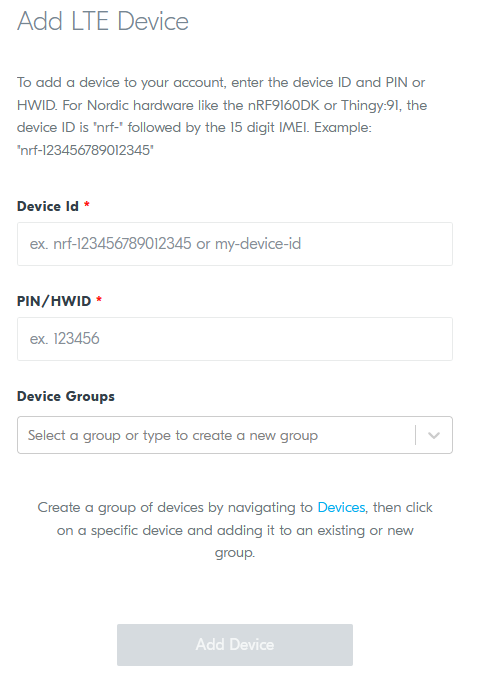
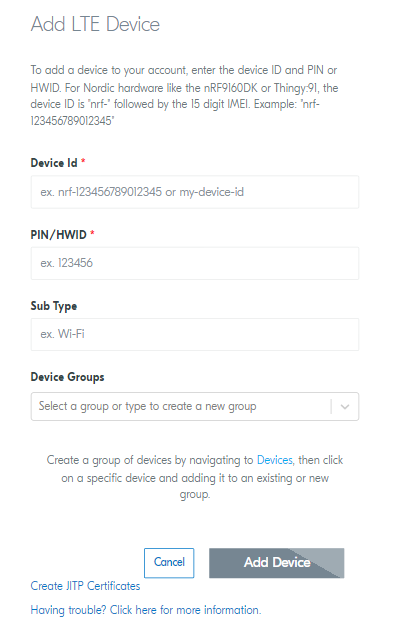
doc: match nRF Cloud frontend changes
The workflow in the nRF Cloud frontend is changing. This aligns
the documentation for the nRF9160 DK and the Thingy:91 to match
the new flow.

diff --git a/doc/nrf/device_guides/working_with_nrf/nrf91/nrf9160_gs.rst b/doc/nrf/device_guides/working_with_nrf/nrf91/nrf9160_gs.rst
@@ -60,14 +60,12 @@ To work with the nRF9160 DK firmware and certificates, complete the following st
    #. Connect the nRF9160 DK to the computer with a micro-USB cable, and then turn the DK on.
 
 #. Use the Quick Start app to update the DK firmware.
-   Follow the steps in the application and pay attention to the following actions:
 
-   * When selecting which application to program, select the **Asset Tracking** option.
-   * In the SIM Setup step, read and copy the :term:`Integrated Circuit Card Identifier (ICCID)` of the inserted micro-SIM.
-     This is needed for connecting to nRF Cloud.
+   Follow the steps in the application to update the firmware, create an nRF Cloud account, and activate the iBasis SIM card that came with your nRF9160 DK.
+   When selecting which application to program, select the **Asset Tracking** option.
 
-   If you have not yet installed the |NCS| and selected the preferred development environment, the application will point you to the related resources.
-   It will also provide you with links to the recommended learning materials from Nordic Semiconductor related to cellular development.
+If you have not yet installed the |NCS| and selected the preferred development environment, the application will point you to the related resources.
+It will also provide you with links to the recommended learning materials from Nordic Semiconductor related to cellular development.
 
 .. _nrf9160_gs_connect_to_cloud:
 .. _nrf9160_gs_connecting_dk_to_cloud:
@@ -82,15 +80,9 @@ Connecting the |DK| to nRF Cloud
 To transmit data from your |DK| to nRF Cloud, you need an `nRF Cloud`_ account.
 nRF Cloud is Nordic Semiconductor's platform for connecting your IoT devices to the cloud, viewing and analyzing device message data, prototyping ideas that use Nordic Semiconductor's chips, and more.
 
-Once you have an account, activate your SIM card and add the |DK| to your nRF Cloud account.
-
-.. note::
-
-   The instructions assume you are activating an iBasis SIM card that came with your |DK|.
-
-   If you are using a SIM card from another provider, make sure you activate it through your network operator before adding the device to nRF Cloud.
-
 .. dk_nrf_cloud_end
+
+If you used the :ref:`Quick Start app to get started <nrf9160_gs_updating_fw>`, you have an account and can :ref:`add the nRF9160 DK to nRF Cloud <nrf9160_gs_cloud_add_device>`.
 
 .. _creating_cloud_account:
 
@@ -112,61 +104,8 @@ To create an nRF Cloud account, complete the following steps:
 
 You can now log in to `nRF Cloud`_ with your email and password.
 After logging in, you are taken to the dashboard view that displays your device count and service usage.
-Next, you need to activate the SIM card you will use in the |DK|.
 
 .. nrf_cloud_account_end
-
-.. _nrf9160_gs_cloud_activate_sim:
-
-Activating the SIM card
-=======================
-
-.. |firmware_section_link| replace:: :ref:`nrf9160_gs_updating_fw`
-
-.. nrf_cloud_activate_sim_start
-
-To activate the iBasis SIM card that comes shipped with the |DK|, complete the following steps in the `nRF Cloud`_ portal.
-Make sure you are logged in to the portal.
-
-1. Click the :guilabel:`+` icon in the top left corner.
-
-   .. figure:: images/nrfcloud_plus_sign_callout.png
-      :alt: nRF Cloud - Plus icon
-
-      nRF Cloud - Plus icon
-
-   The :guilabel:`Add New` menu opens.
-
-   .. figure:: images/nrfcloud_addnew.png
-      :alt: nRF Cloud - Add New menu
-
-      nRF Cloud - Add New menu
-
-#. In the :guilabel:`Add New` menu, click :guilabel:`SIM Card`.
-#. Complete the following steps on the **Add SIM** page to activate your iBasis SIM card:
-
-   .. figure:: images/nrfcloud_activating_sim.png
-      :alt: nRF Cloud - Add SIM page
-
-      nRF Cloud - Add SIM page
-
-   a. Enter the 18-digit :term:`Integrated Circuit Card Identifier (ICCID)` or the 19-digit :term:`eUICC Identifier (EID)` in the **SIM ICCID/EID** text box.
-
-      If you followed the instructions in the |firmware_section_link| section, paste the copied ICCID into the **SIM ICCID/EID** box and remove the last two digits.
-
-      .. note::
-         The SIM card can have either the EID, the ICCID, or neither printed on it.
-
-   #. Enter the :term:`Personal Unblocking Key (PUK)` in the **PUK** text box.
-
-      The PUK is printed on the SIM card.
-      Reveal the PUK by scratching off the area on the back of the SIM card.
-   #. Accept the Terms and the Privacy Policy.
-   #. Click the :guilabel:`Activate SIM` button.
-
-After the SIM card is activated, you can add your |DK| to nRF Cloud.
-
-.. nrf_cloud_activate_sim_end
 
 .. _nrf9160_gs_cloud_add_device:
 
@@ -175,12 +114,11 @@ Adding the nRF9160 DK to nRF Cloud
 
 .. |led_cloud_association| replace:: the **LED3** double pulse blinks
 .. |led_publishing_data| replace:: blinking of **LED3**
-.. |activate_sim_section| replace:: :ref:`nrf9160_gs_cloud_activate_sim`
 
 .. nrf_cloud_add_device_start
 
 To add the |DK| to nRF Cloud, complete the following steps.
-Make sure you are logged in to the `nRF Cloud`_ portal.
+Make sure you are logged in to the `nRF Cloud`_ portal and have an activated SIM card in the SIM card slot of the |DK|.
 
 1. Connect the |DK| to the computer with a USB cable and switch it on, or reset the device if it is already switched on.
 #. Wait up to three minutes for the device to find the cellular network and connect to the nRF Cloud server.
@@ -189,56 +127,30 @@ Make sure you are logged in to the `nRF Cloud`_ portal.
    When the device has connected, |led_cloud_association| to indicate that user association is required and you can move to the next step.
    See :ref:`Asset Tracker v2 LED indication <led_indication>` for more information.
 
-#. Click the :guilabel:`+` icon in the top left corner.
+#. Click :guilabel:`Devices` under :guilabel:`Device Management` in the navigation pane on the left.
 
-   .. figure:: images/nrfcloud_plus_sign_callout.png
-      :alt: nRF Cloud - Plus icon
+   .. figure:: images/nrfcloud_devices.png
+      :alt: nRF Cloud - Devices
 
-      nRF Cloud - Plus icon
+      nRF Cloud - Devices
 
-   The :guilabel:`Add New` menu opens.
+#. Click :guilabel:`Add Devices`.
 
-   .. figure:: images/nrfcloud_addnew.png
-      :alt: nRF Cloud - Add New menu
+   .. figure:: images/nrfcloud_add_devices.png
+      :alt: nRF Cloud - Add Devices
 
-      nRF Cloud - Add New menu
+      nRF Cloud - Add Devices
 
-#. In the :guilabel:`Add New` menu, click :guilabel:`LTE Device`.
-   The **Add LTE Device** page opens in the **Verify SIM Info** view.
+   The **Select Device Type** pop-up opens.
 
-   .. figure:: images/nrfcloud_activating_sim.png
-      :alt: nRF Cloud - Add LTE Device page, Verify SIM Info view
+#. Click :guilabel:`LTE Device` in the **Select Device Type** pop-up.
 
-      nRF Cloud - Add LTE Device page, Verify SIM Info view
+   .. figure:: images/nrfcloud_selectdevicetype.png
+      :alt: nRF Cloud - Select Device Type
 
-#. Complete the following steps in the **Activate SIM Card** view to activate your iBasis SIM card:
+      nRF Cloud - Select Device Type
 
-   a. Enter the 18-digit :term:`Integrated Circuit Card Identifier (ICCID)` or the 19-digit :term:`eUICC Identifier (EID)` in the **SIM ICCID/EID** text box.
-
-      If you followed the instructions in the |firmware_section_link| section, paste the copied ICCID into the **SIM ICCID/EID** box.
-
-      .. note::
-         The SIM cards can have either the EID, the ICCID, or neither printed on it.
-
-   #. Enter the :term:`Personal Unblocking Key (PUK)` in the **PUK** text box.
-
-      The PUK is printed on the SIM card.
-      Reveal the PUK by scratching off the area on the back of the SIM card.
-   #. Accept the Terms and the Privacy Policy.
-   #. Click the :guilabel:`Activate SIM` button.
-
-   After the SIM card is activated, you are taken to the **Add LTE Device** view.
-   Leave the browser window open and continue with the next step before you enter the information on this window.
-
-.. nrf_cloud_connection_end
-
-5. Connect the nRF9160 DK to the computer with a USB cable and turn it on, or reset the device if it is already turned on.
-#. Wait up to three minutes for the device to find the cellular network and connect to the nRF Cloud server.
-
-   At this stage, the device is provisioned on nRF Cloud, but not yet associated with your nRF Cloud account.
-   When the DK has connected, the **LED3** double pulse blinks to indicate that user association is required and you can move to the next step.
-
-#. In the **Add LTE Device** view from Step 4, enter your device ID and ownership code (**PIN/HWID**).
+#. Enter your device ID and ownership code (**PIN/HWID**) on the **Add LTE Device** page.
 
    .. figure:: images/nrfcloud_add_lte_device.png
       :alt: nRF Cloud - Add LTE Device
@@ -264,21 +176,16 @@ Make sure you are logged in to the `nRF Cloud`_ portal.
 
    The **Do you need to activate an iBasis SIM?** pop-up opens.
 
-#. Click :guilabel:`Device View` if you have an activated SIM.
-   You are taken to the page for your device.
-
-   Click :guilabel:`Add iBasis SIM` if you have not yet activated your iBasis SIM card.
-   See the |activate_sim_section| section for more information.
-
-#. Wait for the device to reconnect to nRF Cloud.
+#. Click :guilabel:`Continue` and wait for the device to reconnect to nRF Cloud.
    It is normal for the device to disconnect and reconnect multiple times during device provisioning.
+
+   If you have not yet activated the iBasis SIM card that came with your |DK|, click :guilabel:`Activate iBasis SIM` instead, and follow the instructions.
 
 The |DK| is now added to your nRF Cloud account.
 This is indicated by the |led_publishing_data|, which shows that the device is publishing data.
 See :ref:`Asset Tracker v2 LED indication <led_indication>` for more information.
 
-To access the page for your device later in the nRF Cloud portal, click :guilabel:`Devices` under :guilabel:`Device Management` in the navigation pane on the left.
-This opens the **Devices** page, where you can select your device to access its device page.
+On nRF Cloud, you can access the device by clicking :guilabel:`Devices` under :guilabel:`Device Management` in the navigation pane on the left.
 
 .. nrf_cloud_add_device_end
 

diff --git a/doc/nrf/device_guides/working_with_nrf/nrf91/nrf9160.rst b/doc/nrf/device_guides/working_with_nrf/nrf91/nrf9160.rst
@@ -44,22 +44,33 @@ To do so, you need to download a new certificate and then provision it to your D
 Downloading the nRF Cloud certificate
 =====================================
 
-Complete the following steps to download the nRF Cloud certificate for your nRF9160 DK:
+To download the nRF Cloud certificate for your nRF9160 DK, complete the following steps.
+Make sure you are logged in to the `nRF Cloud`_ portal.
 
-1. Go to `nRF Cloud`_ and sign in.
-#. Click :guilabel:`Device Management` in the left pane and select :guilabel:`Provision Devices`.
+1. Click :guilabel:`Devices` under :guilabel:`Device Management` in the navigation pane on the left.
 
-   .. figure:: images/nrfcloud_provisiondevices.png
-      :alt: nRF Cloud - Provision Devices
+   .. figure:: images/nrfcloud_devices.png
+      :alt: nRF Cloud - Devices
 
-      nRF Cloud - Provision Devices
+      nRF Cloud - Devices
 
-#. In the  page that opens up, click the gear icon near the upper right corner and select :guilabel:`Create JITP Certificates`.
+#. Click :guilabel:`Add Devices`.
 
-   .. figure:: images/nrfcloud_provisiondevices_gearicon.png
-      :alt: nRF Cloud - Gear icon in Provision Devices
+   .. figure:: images/nrfcloud_add_devices.png
+      :alt: nRF Cloud - Add Devices
 
-      nRF Cloud - Gear icon in Provision Devices
+      nRF Cloud - Add Devices
+
+   The **Select Device Type** pop-up opens.
+
+#. Click :guilabel:`LTE Device` in the **Select Device Type** pop-up.
+
+   .. figure:: images/nrfcloud_selectdevicetype.png
+      :alt: nRF Cloud - Select Device Type
+
+      nRF Cloud - Select Device Type
+
+#. Click **Create JITP Certificates** at the bottom of the page.
 
    The **Create JITP Certificates** dialog box opens.
 
@@ -90,6 +101,8 @@ Complete the following steps to download the nRF Cloud certificate for your nRF9
       The certificate contains all the information that is needed to connect your nRF9160 DK to nRF Cloud.
       Therefore, do not share it with anyone.
 
+#. Close the **Create JITP Certificates** dialog box.
+
 .. _provisioning_cloud_certificate:
 
 Provisioning the nRF Cloud certificate
@@ -100,13 +113,12 @@ After downloading the certificate, you must provision it to your nRF9160 DK.
 .. note::
 
    The application firmware on the nRF9160 DK must support long AT commands up to 3 kB to provision the certificate.
-   If you have updated the application firmware using the instructions in either the :ref:`Getting started <nrf9160_gs_updating_fw>` documentation or the :ref:`build_pgm_nrf9160` section, this requirement is fulfilled.
+   If you have updated the application firmware using the instructions in either the :ref:`nrf9160_gs_updating_fw` documentation or the :ref:`nrf9160_ug_updating_fw_programmer` or :ref:`build_pgm_nrf9160` sections, this requirement is fulfilled.
 
 Complete the following steps to provision the certificate:
 
 1. Start nRF Connect for Desktop and install the `Cellular Monitor`_ app.
 #. Open the Cellular Monitor app.
-#. Make sure that the DK is programmed as mentioned in the :ref:`nrf9160_gs_updating_fw` section.
 #. Connect the DK to the computer with a micro-USB cable, and turn it on.
 #. Click :guilabel:`Select device` and select the DK from the drop-down list.
 

diff --git a/doc/nrf/device_guides/working_with_nrf/nrf91/thingy91_gsg.rst b/doc/nrf/device_guides/working_with_nrf/nrf91/thingy91_gsg.rst
@@ -52,7 +52,7 @@ Before you start updating the modem firmware and application on the Thingy:91, y
 
 Complete the following steps to prepare the Thingy:91 for setup:
 
-1. Install the `nRF Connect Programmer`_ application on the computer:
+1. Install the `Cellular Monitor`_ app on the computer:
 
    a. Go to `nRF Connect for Desktop Downloads <Download nRF Connect for Desktop_>`_.
    #. Download and install nRF Connect for Desktop.
@@ -201,6 +201,14 @@ Connecting the |DK| to nRF Cloud
    :start-after: dk_nrf_cloud_start
    :end-before: dk_nrf_cloud_end
 
+Once you have an account, activate your SIM card and add the Thingy:91 to your nRF Cloud account.
+
+.. note::
+
+   The instructions assume you are activating an iBasis SIM card that came with your |DK|.
+
+   If you are using a SIM card from another provider, make sure you activate it through your network operator before :ref:`adding the device to nRF Cloud <thingy91_cloud_add_device>`.
+
 Creating an nRF Cloud account
 =============================
 
@@ -213,11 +221,45 @@ Creating an nRF Cloud account
 Activating the SIM card
 =======================
 
-.. |firmware_section_link| replace:: :ref:`thingy91_update_firmware`
+To activate the iBasis SIM card that comes shipped with the |DK|, complete the following steps in the `nRF Cloud`_ portal.
+Make sure you are logged in to the portal.
 
-.. include:: nrf9160_gs.rst
-   :start-after: nrf_cloud_activate_sim_start
-   :end-before: nrf_cloud_activate_sim_end
+1. Click :guilabel:`SIM Cards` under :guilabel:`Device Management` in the navigation pane on the left.
+
+   .. figure:: images/nrfcloud_simcards.png
+      :alt: nRF Cloud - SIM Cards
+
+      nRF Cloud - SIM Cards
+
+#. Click :guilabel:`Add SIM`.
+
+   .. figure:: images/nrfcloud_addsim.png
+      :alt: nRF Cloud - Add SIM
+
+      nRF Cloud - Add SIM
+
+#. Complete the following steps on the **Add SIM** page to activate your iBasis SIM card:
+
+   .. figure:: images/nrfcloud_activating_sim.png
+      :alt: nRF Cloud - Add SIM page
+
+      nRF Cloud - Add SIM page
+
+   a. Enter the 18-digit :term:`Integrated Circuit Card Identifier (ICCID)` or the 19-digit :term:`eUICC Identifier (EID)` in the **SIM ICCID/EID** text box.
+
+      If you followed the instructions in the :ref:`thingy91_update_firmware` section, paste the copied ICCID into the **SIM ICCID/EID** box and remove the last two digits.
+
+      .. note::
+         The SIM cards can have either the EID, the ICCID, or neither printed on it.
+
+   #. Enter the :term:`Personal Unblocking Key (PUK)` in the **PUK** text box.
+
+      The PUK is printed on the SIM card.
+      Reveal the PUK by scratching off the area on the back of the SIM card.
+   #. Accept the Terms and the Privacy Policy.
+   #. Click the :guilabel:`Activate SIM` button.
+
+After the SIM card is activated, you can add your |DK| to nRF Cloud.
 
 .. _thingy91_cloud_add_device:
 
